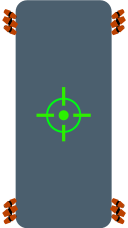
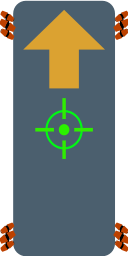
Fixing robot to match required dimensions, adding up arrow to show + Y-axis for robot reference frame.

Changed region(s): [[0.0, 0.0, 1.0, 1.0], [0.25, 0.4298, 0.75, 0.6447]]

diff --git a/src/main/src/UI/displayCanvases/RobotCanvas.java b/src/main/src/UI/displayCanvases/RobotCanvas.java
@@ -21,7 +21,7 @@ public class RobotCanvas {
 
     public RobotCanvas(Canvas robotCanvas) {
         this.robotCanvas = robotCanvas;
-        this.robotLocation = new Point(0, 606);
+        this.robotLocation = new Point(0, 600);
         this.robotAngle = 0;
     }
 
@@ -31,7 +31,7 @@ public class RobotCanvas {
     public void init() {
         File test = new File(ROBOT_IMAGE);
         System.out.println(test.isFile());
-        Image robot = new Image("file:" + test.getAbsolutePath(), 64.0, 114.0, false, true);
+        Image robot = new Image("file:" + test.getAbsolutePath(), 48.0, 96.0, false, true);
         GraphicsContext gc = robotCanvas.getGraphicsContext2D();
         // draw the robot
         gc.drawImage(robot, robotLocation.getX(), robotLocation.getY());

diff --git a/src/main/src/UI/tabControls/ControlTab.java b/src/main/src/UI/tabControls/ControlTab.java
@@ -104,7 +104,7 @@ public class ControlTab implements Initializable {
         enableGeneralFields();
         // setup the canvas with the robot image
         File fileLocation = new File(ROBOT_IMAGE);
-        Image robot = new Image("file:" + fileLocation.getAbsolutePath(), 128, 228, false, true);
+        Image robot = new Image("file:" + fileLocation.getAbsolutePath(), 128, 256, false, true);
         GraphicsContext gc = robotImage.getGraphicsContext2D();
         gc.drawImage(robot, 0,0);
 
